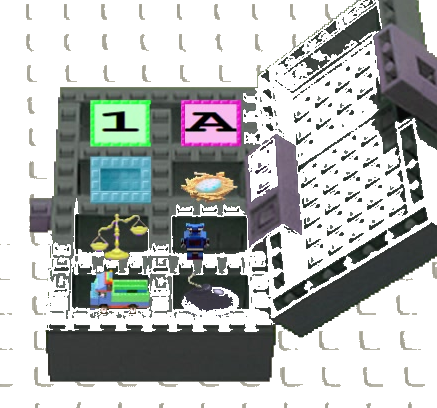
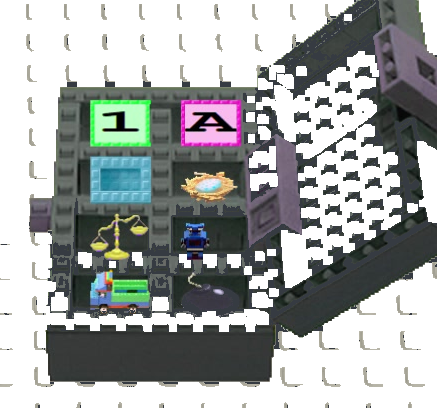
Toolbox/tools/mouse: address the latest feedback
- Toolbox transparency: the photo's open-lego gaps let the floor show
  through. Fill the interior holes + morphologically close the small
  stud-recess gaps so the body reads solid (the lid still has a few gaps
  that connect out -- noted).
- Toolbox is pick-up-able: grabbing the toolbox body (not a compartment)
  drags the whole thing; compartment picks stopPropagation.
- No mouse when taking from Tooly: element pickup is just a quick grow
  (the bam-mouse is for *combining* only). Drop the unused
  morphFromToolbox + lego-brick-on-pickup path.
- Mouse slower + actually hits: runMouse now runs in, PAUSES at the item
  while the hammer swings (bam fires mid-hold), then runs out.
- Tools bigger and background-free: the spilled wand/Dusty/Pumpy are just
  their (larger) sprites + a mode badge, no lego-brick backing.

diff --git a/src/view/room.ts b/src/view/room.ts
@@ -94,6 +94,11 @@ export class Room {
   private readonly cursor: PIXI.Container;
   private readonly handSprite: PIXI.Sprite;
   private readonly arm: PIXI.Graphics;
+  /** Tooly can be picked up and moved: drag state for the open-toolbox image. */
+  private tbBox?: PIXI.Container;
+  private tbDragging = false;
+  private tbOff = { x: 0, y: 0 };
+  private tbWired = false;
 
   constructor(
     private readonly renderer: Renderer,
@@ -271,24 +276,17 @@ export class Room {
 
   /** A toolbox hand-tool chip (chrome): the tool's icon + a small mode badge;
    * clicking pulls a fresh copy out at the cursor. */
-  /** A hand tool spilled onto the floor by the open Tooly. Idle, a tool reads as
-   * a chunky studded **lego brick** (its inert form, tool-tinted) with its icon
-   * and mode badge; clicking pulls a fresh *clay* copy into the hand. */
+  /** A hand tool spilled onto the floor by the open Tooly — just the tool's own
+   * sprite (no background), big enough to read, with a small mode badge; clicking
+   * pulls a fresh copy into the hand. */
   private makeToolChip(pick: string, badge: string, tilt = 0): PIXI.Container {
     const c = new PIXI.Container();
-    const tint: Record<string, [number, number, number]> = {
-      wand: [0xc7a23e, 0xe3c061, 0x9c7c22],
-      dusty: [0x9aa1ab, 0xc2c8d1, 0x6f7680],
-      pumpy: [0x3f74ad, 0x5e93c9, 0x2b5482],
-    };
-    const [base, light, dark] = tint[pick] ?? [0x8f949c, 0xb0b6bf, 0x6b7079];
-    c.addChild(this.studdedPanel(78, 60, base, light, dark)); // the lego brick
-    const icon = pick === 'pumpy' ? this.pumpGlyph() : this.makeIcon(pick, 46);
-    icon.position.set(0, -2);
+    const icon = pick === 'pumpy' ? this.pumpGlyph() : this.makeIcon(pick, 92);
+    if (pick === 'pumpy') icon.scale.set(2.4); // the vector glyph is small at native size
     c.addChild(icon);
     const b = new PIXI.Graphics();
     b.beginFill(0x223040, 0.95);
-    b.drawCircle(30, 22, 12);
+    b.drawCircle(32, 26, 12);
     b.endFill();
     const t = new PIXI.Text(badge, {
       fontFamily: this.theme.fontFamily,
@@ -297,10 +295,10 @@ export class Room {
       fontWeight: 'bold',
     });
     t.anchor.set(0.5);
-    t.position.set(30, 22);
+    t.position.set(32, 26);
     c.addChild(b, t);
     c.rotation = tilt;
-    c.hitArea = new PIXI.Rectangle(-42, -33, 84, 66);
+    c.hitArea = new PIXI.Rectangle(-48, -38, 96, 76);
     c.eventMode = 'static';
     c.cursor = 'grab';
     // Handle the pick here and stop it bubbling to the stage, so the tool is put
@@ -376,12 +374,35 @@ export class Room {
    * invisible hit areas over each compartment that pick that element. */
   private makeToolboxImage(tex: PIXI.Texture): PIXI.Container {
     const box = new PIXI.Container();
+    this.tbBox = box;
     const sprite = new PIXI.Sprite(tex);
     sprite.anchor.set(0.5);
     sprite.scale.set(420 / Math.max(sprite.width, 1)); // ~420px wide (matches the original's footprint)
     box.addChild(sprite);
     const W = sprite.width;
     const H = sprite.height;
+
+    // Tooly can be picked up: grabbing the toolbox body (not a compartment)
+    // drags the whole thing. Compartment hit areas sit on top and stopPropagation.
+    sprite.eventMode = 'static';
+    sprite.cursor = 'grab';
+    sprite.on('pointerdown', (e) => {
+      e.stopPropagation();
+      this.tbDragging = true;
+      this.tbOff = { x: box.position.x - e.global.x, y: box.position.y - e.global.y };
+    });
+    if (!this.tbWired) {
+      this.tbWired = true;
+      const stage = this.renderer.app.stage;
+      stage.on('pointermove', (e) => {
+        if (this.tbDragging && this.tbBox && !this.tbBox.destroyed) {
+          this.tbBox.position.set(e.global.x + this.tbOff.x, e.global.y + this.tbOff.y);
+        }
+      });
+      const stop = (): void => { this.tbDragging = false; };
+      stage.on('pointerup', stop);
+      stage.on('pointerupoutside', stop);
+    }
     // Compartment centres as fractions of the image (measured from the crop):
     // number, text / box, nest / scale, robot / truck, bomb.
     const slots: Array<[string, number, number]> = [

diff --git a/src/view/animation.ts b/src/view/animation.ts
@@ -144,8 +144,9 @@ export function runMouse(
   parent.addChild(sprite);
   sprite.play();
 
-  const inMs = 720;
-  const outMs = 540;
+  const inMs = 850; // run in
+  const holdMs = 600; // pause at the item, swinging the hammer down to hit
+  const outMs = 600; // run back out
   const start = performance.now();
   let bammed = false;
   const step = (): void => {
@@ -158,12 +159,19 @@ export function runMouse(
       const t = now / inMs;
       const e = 1 - (1 - t) * (1 - t); // ease-out as it runs in
       sprite.position.set(from.x + (bam.x - from.x) * e, from.y + (bam.y - from.y) * e);
+    } else if (now <= inMs + holdMs) {
+      // Pause at the item and let the cycle play — the hammer comes down here.
+      sprite.position.set(bam.x, bam.y);
+      if (!bammed && now >= inMs + holdMs * 0.5) {
+        bammed = true;
+        onBam(); // the hammer connects mid-swing
+      }
     } else {
       if (!bammed) {
         bammed = true;
         onBam();
       }
-      const t = Math.min(1, (now - inMs) / outMs);
+      const t = Math.min(1, (now - inMs - holdMs) / outMs);
       const e = t * t; // ease-in as it runs back out
       sprite.position.set(bam.x + (out.x - bam.x) * e, bam.y + (out.y - bam.y) * e);
       if (t >= 1) {
@@ -173,45 +181,6 @@ export function runMouse(
     }
   };
   PIXI.Ticker.shared.add(step);
-}
-
-/**
- * Lego→clay morph when an element is pulled from Tooly: a flat lego brick
- * (`legoTex`, e.g. CUBBYB) sits at the spot while the bam-mouse runs in; on the
- * bam the brick is replaced by the clay element (`clay`), which pops to full
- * size. `from`/`out` are the mouse's off-screen entry/exit, in `parent` space.
- */
-export function morphFromToolbox(
-  parent: PIXI.Container,
-  clay: PIXI.Container,
-  legoTex: PIXI.Texture | undefined,
-  worldX: number,
-  worldY: number,
-  from: { x: number; y: number },
-  out: { x: number; y: number },
-): void {
-  clay.visible = false; // hidden until the bam reveals the clay form
-  let lego: PIXI.Sprite | null = null;
-  if (legoTex && legoTex !== PIXI.Texture.WHITE) {
-    lego = new PIXI.Sprite(legoTex);
-    lego.anchor.set(0.5);
-    lego.width = 60;
-    lego.height = 42;
-    lego.position.set(worldX, worldY);
-    lego.zIndex = 60;
-    parent.addChild(lego);
-  }
-  let revealed = false;
-  const reveal = (): void => {
-    if (revealed) return;
-    revealed = true;
-    if (lego && !lego.destroyed) lego.destroy();
-    if (clay.destroyed) return;
-    clay.visible = true;
-    tweenScale(clay, 0.3, 1, 200); // brick → full clay
-  };
-  runMouse(parent, from, { x: worldX, y: worldY }, out, reveal);
-  window.setTimeout(reveal, 1500); // safety: never leave the element hidden
 }
 
 /** Play a named cycle once at (x, y) on `parent`, removing it when finished. */

diff --git a/src/main.ts b/src/main.ts
@@ -35,7 +35,7 @@ import { floorCamera, FLOOR_W, FLOOR_H, clampFloorCamera } from './view/floor-ca
 import { BoxView } from './view/box-view';
 import { loadAssets } from './view/assets';
 import { Room, loadRoomTextures } from './view/room';
-import { loadAnimations, playOnce, flyBird, tweenScale, morphFromToolbox, runMouse } from './view/animation';
+import { loadAnimations, playOnce, flyBird, tweenScale, runMouse } from './view/animation';
 import { DragController } from './input/drag-controller';
 import { InputTracker } from './input/input-state';
 import { updateSensors } from './model/sensor-runtime';
@@ -50,7 +50,7 @@ import { getRenderMode, themeFor, type RenderMode } from './config/render-mode';
  * actually picked up the latest code (vs. a cached page). Bump it whenever you
  * want a visible "this is the new version" marker.
  */
-const BUILD = 'build 2026-06-15m (arm join, lego tools, clean toolbox, mouse on combine)';
+const BUILD = 'build 2026-06-15n (toolbox solid+movable, tools bigger, mouse hits)';
 
 function setHud(text: string): void {
   const hud = document.getElementById('hud');
@@ -87,13 +87,9 @@ async function start(): Promise<void> {
       if (v) tweenScale(v.container, 0.2, 1, 260);
       dragController.holdTool(made);
     } else if (v) {
-      // An element morphs lego→clay: the bam-mouse runs in to a lego brick at
-      // the spawn spot and "bams" it into the clay element (call_in_a_mouse).
-      morphFromToolbox(
-        renderer.thingLayer, v.container, textures.get('cubbyb'), made.x, made.y,
-        { x: floorCamera.x - 240, y: floorCamera.y + renderer.height + 200 },
-        { x: floorCamera.x + renderer.width + 240, y: floorCamera.y - 200 },
-      );
+      // Taking an element from Tooly: it just comes to life with a quick grow —
+      // no mouse (the bam-mouse is only for *combining* things).
+      tweenScale(v.container, 0.4, 1, 200);
     }
   });
   (window as unknown as { __ttRoom?: unknown }).__ttRoom = room;
